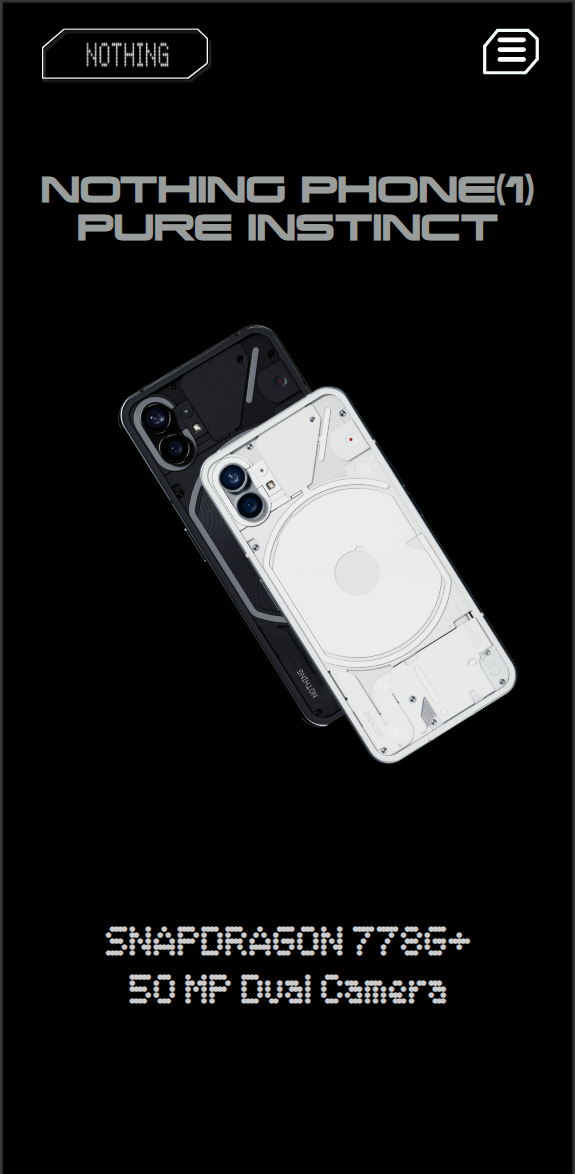
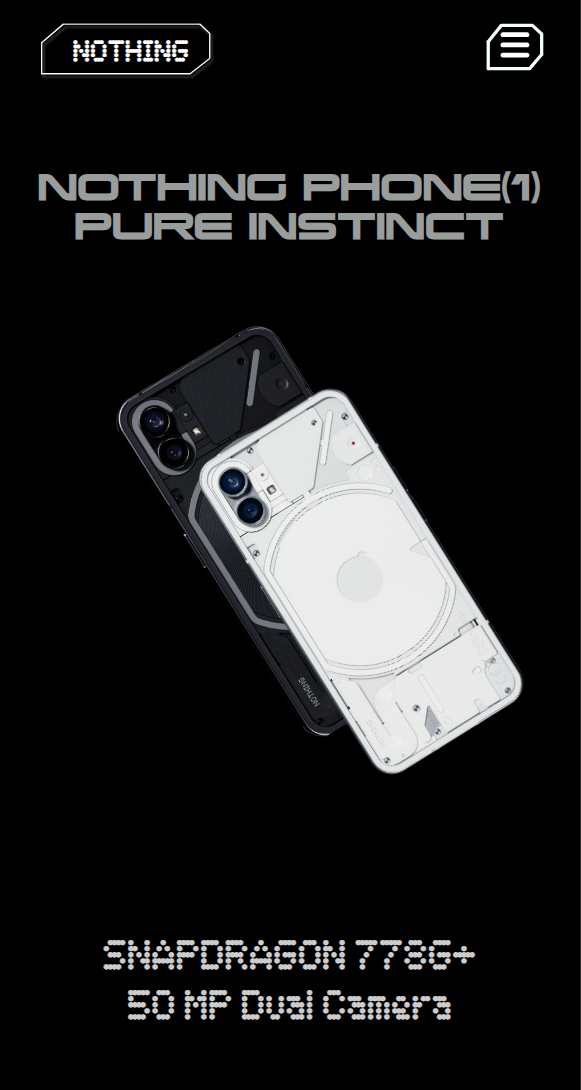
Completed nothing website static clone

diff --git a/Daily Chalange/3rd oct/nothing-clone-by-arpan/css/style.css b/Daily Chalange/3rd oct/nothing-clone-by-arpan/css/style.css
@@ -311,12 +311,18 @@ html,body{
     position: absolute;
     width: 30vw;
    }
-   .responsive-logo-main{
-    position: absolute;
-    width: 40vw;
-    top: -7vw;
-    left: -5vw;
-   }
+    .responsive-logo-main{
+     display: flex;
+    align-items: center;
+    justify-content: center;
+   position: absolute;
+   font-family: nothing_main;
+   text-transform: uppercase;
+   left: 5.5vw;
+   font-size: 5vw;
+   top: 2.3vw;
+     
+    }
    .icons{
     display: block;
     align-items: center;

diff --git a/Daily Chalange/3rd oct/nothing-clone-by-arpan/index.html b/Daily Chalange/3rd oct/nothing-clone-by-arpan/index.html
@@ -12,7 +12,7 @@
             <h1 class="brand-title">nothing</h1>
             <div class="responsive-brand">
                 <img class="responsive-logo-left" src="images/left_top.svg" alt="">
-                <img class="responsive-logo-main" src="images/nothing.svg" alt="">
+                 <h1 class="responsive-logo-main">nothing</h1>
             </div>
             <div class="icons">
                 <img class="icon-small" src="images/chota.svg" alt="">
